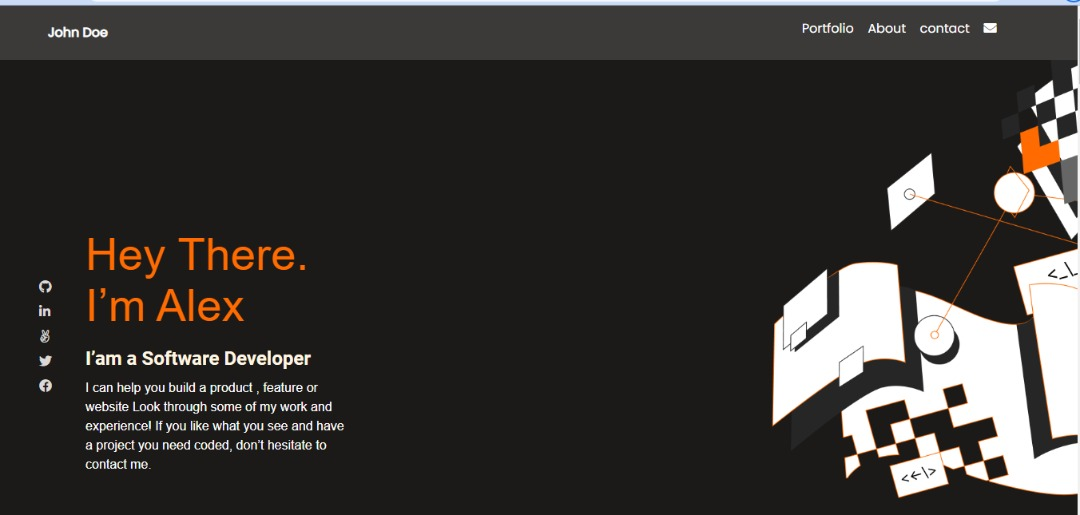
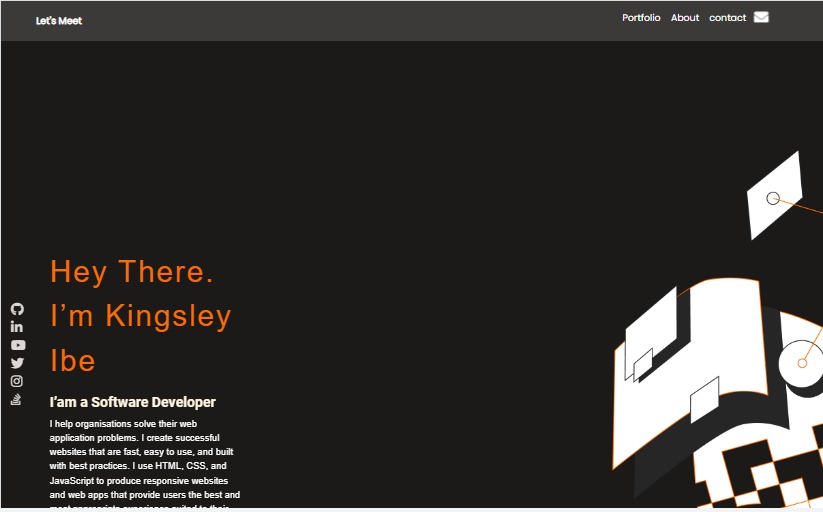
Make changes to images folder, index.html,script.js, and style.css files

Changed region(s): [[0.0, 0.0, 1.0, 1.0]]

diff --git a/index.html b/index.html
@@ -46,11 +46,11 @@
             <section class="section-headline mv-section-headline">
             <div class="main-text mv-main-text">
             <div class="intro">
-                <h1>Hey There. I’m Kingsley Ibe</h1>
-                <h3>I’am a Software Developer</h3>
+                <h1>Hey There, I’m Kingsley</h1>
+                <h3>I’m a Software Developer</h3>
                 <p>I help organisations solve their web application problems. 
                     I create successful websites that are fast, easy to use, and built with best practices. 
-                    I use HTML, CSS, and JavaScript to produce responsive websites and web apps that provide
+                    With modern web technologies I produce responsive websites and web apps that provide
                     users the best and most appropriate experience suited to their device and browser.</p>
             </div>
                 <ul class=" social-media social-media-icons mv-social-media mv-social-media-icons">
@@ -74,8 +74,9 @@
                 </div>
                 <div class="project-list-1">
                 <h2>Github Finder</h2>
-                <p>A daily selection of privately personalized reads; no accounts or sign-ups required. has been the industry's 
-                    standard dummy text ever since the 1500s, when an unknown printer took a standard dummy text.</p>
+                <p>Github Finder is a web application that calls the Github user API to fetch information about 
+                    individual users. 
+                </p>
                     <ul>
                         <li><a href="#" class="anchor-link">CSS</a></li>
                         <li><a href="#" class="anchor-link">HTML</a></li>
@@ -94,54 +95,54 @@
                 <p>A daily selection of privately personalized reads; 
                     no accounts or sign-ups required. has been the industry's standard</p>
                     <ul>
-                        <li><a href="#" class="anchor-link">html</a></li>
+                        <li><a href="#" class="anchor-link">HTML</a></li>
                         <li><a href="#" class="anchor-link">bootstrap</a></li>
-                        <li><a href="#" class="anchor-link">Ruby</a></li>
+                        <li><a href="#" class="anchor-link">CSS</a></li>
                     </ul>
             </div>
                 <div class="project-2-btn">
                     <button class="btn btn-2" type="button">See Project</button>
                 </div>
             </div>
-            <div class="project-2">
+            <div class="project-2 project-3">
                 <div class="project-layout mv-project-layout">
                 <h3 class="project-title">Professional Art Printing Data</h3>
                 <p>A daily selection of privately personalized reads; 
                     no accounts or sign-ups required. has been the industry's standard</p>
                     <ul>
-                        <li><a href="#" class="anchor-link">html</a></li>
+                        <li><a href="#" class="anchor-link">HTML</a></li>
                         <li><a href="#" class="anchor-link">bootstrap</a></li>
-                        <li><a href="#" class="anchor-link">Ruby</a></li>
+                        <li><a href="#" class="anchor-link">CSS</a></li>
                     </ul>
             </div>
                 <div class="project-2-btn">
                     <button class="btn btn-3" type="button">See Project</button>
                 </div>
             </div>
-            <div class="project-2">
+            <div class="project-2 project-4">
                 <div class="project-layout mv-project-layout">
                 <h3 class="project-title">Professional Art Printing Data</h3>
                 <p>A daily selection of privately personalized reads; 
                     no accounts or sign-ups required. has been the industry's standard</p>
                     <ul>
                         <li><a href="#" class="anchor-link">html</a></li>
-                        <li><a href="#" class="anchor-link">bootstrap</a></li>
-                        <li><a href="#" class="anchor-link">Ruby</a></li>
+                        <li><a href="#" class="anchor-link">JavaScript</a></li>
+                        <li><a href="#" class="anchor-link">Rect</a></li>
                     </ul>
                 </div>
                 <div class="project-2-btn">
                     <button class="btn btn-4" type="button">See Project</button>
                 </div>
             </div>
-            <div class="project-2">
+            <div class="project-2 project-5">
                 <div class="project-layout mv-project-layout">
                 <h3 class="project-title">Prudence Concept Website</h3>
                 <p>Prudence is a Photography business website that offers 
                     different Photography services such as Videography, event shot, commercial Photography, etc.
                 </p>
                     <ul>
-                        <li><a href="#" class="anchor-link">html</a></li>
-                        <li><a href="#" class="anchor-link">bootstrap</a></li>
+                        <li><a href="#" class="anchor-link">HTML</a></li>
+                        <li><a href="#" class="anchor-link">Bootstrap</a></li>
                         <li><a href="#" class="anchor-link">JavaScript</a></li>
                     </ul>
                 </div>
@@ -149,7 +150,7 @@
                     <button class="btn btn-5" type="button">See Project</button>
                 </div>
             </div>
-            <div class="project-2">
+            <div class="project-2 project-6">
                 <div class="project-layout mv-project-layout">
                 <h3 class="project-title">Leads Tracker - Google Chrome Extension</h3>
                 <p>Google chrome extension for saving URLs. With Leads Tracker, you don't 
@@ -165,15 +166,15 @@
                     <button class="btn btn-6" type="button">See Project</button>
                 </div>
             </div>
-            <div class="project-2">
+            <div class="project-2 project-7">
                 <div class="project-layout mv-project-layout">
-                <h3 class="project-title">Professional Art Printing Data</h3>
+                <h3 class="project-title">Portfolio Website for Software Developer</h3>
                 <p>A daily selection of privately personalized reads; 
                     no accounts or sign-ups required. has been the industry's standard</p>
                     <ul>
-                        <li><a href="#" class="anchor-link">html</a></li>
-                        <li><a href="#" class="anchor-link">bootstrap</a></li>
-                        <li><a href="#" class="anchor-link">Ruby</a></li>
+                        <li><a href="#" class="anchor-link">HTML</a></li>
+                        <li><a href="#" class="anchor-link">CSS</a></li>
+                        <li><a href="#" class="anchor-link">JavaScript</a></li>
                     </ul>
                 </div>
                 <div class="project-2-btn">

diff --git a/script.js b/script.js
@@ -19,7 +19,7 @@ window.onload = () => {
     const projectItems = [
       {
         id: 1,
-        title: 'Multi Post Stories',
+        title: 'Github Finder',
         displayImage: '',
         tech: ['Html', 'Bootstrap', 'Ruby on rails'],
         description: 'Lorem Ipsum is simply dummy text of the printing and typesetting industry.' +
@@ -71,35 +71,42 @@ window.onload = () => {
       },
       {
         id: 5,
-        title: 'Multi Post Stories',
+        title: 'Prudence Concept Website',
         displayImage: '',
-        tech: ['Html', 'Bootstrap', 'Ruby on rails'],
-        description: 'Lorem Ipsum is simply dummy text of the printing and typesetting industry.' +
-        'Lorem Ipsum has been the industrys standard dummy text ever since the 1500s, when an' + 
-        'unknown printer took a galley of type and scrambled it to make a type specimen book.' + 
-        'It has survived not only five centuries, but also the leap into electronic typesetting,' + 
-        'remaining essent',
+        tech: ['HTML', 'Bootstrap', 'JavaScript'],
+        description: 'Before your visit the live link, let me tell you a bit about Prudence Concept and their awesome work. ' +
+        'Prudence Concept specializes in wedding photography, corporate, family and senior portraits, ' +
+        'often traveling to your destination to capture the perfect moment in the perfect place. ' + 
+        'Supporting their client with every step of the way to guarantee their special moments are captured for all time. ' +
+        'To Prudence, photography is about people being real and then letting creators paint a picture of that moment ' +
+        'to remember it forever. This is the story that matters most: real people, real stories, real moments. ' +
+        'They are incredibly blessed to have a team of photographers who work with them on any given weekend. ' + 
+        'Please take a few minutes to get to know Prudence. They would love to visit with you by phone or in  ' +
+        'person and talk about your wedding, event, portrait session or video project.' +
+        'Please reach out to Prudence to get super quality service. ',
         linkToSource: 'See Source',
         linkToLive: 'See Live'
       },
       {
         id: 6,
-        title: 'Multi Post Stories',
+        title: 'Leads Tracker - Google Chrome Extension',
         displayImage: '',
-        tech: ['Html', 'Bootstrap', 'Ruby on rails'],
-        description: 'Lorem Ipsum is simply dummy text of the printing and typesetting industry.' +
-        'Lorem Ipsum has been the industrys standard dummy text ever since the 1500s, when an' + 
-        'unknown printer took a galley of type and scrambled it to make a type specimen book.' + 
-        'It has survived not only five centuries, but also the leap into electronic typesetting,' + 
-        'remaining essent',
+        tech: ['HTML', 'CSS', 'JavaScript'],
+        description: 'Leads Tracker can be used to save URL from any website. ' +
+        'Build a list of targeted leads to grow your business from any website. ' + 
+        'For sites with great leads potential as LinkedIn, Leads Tracker can be a tool to save the URL for 1st, ' + 
+        '2nd and 3rd level LinkedIn connections. Just visit any URL you wish to save, ' + 
+        'click on ‘save tab’ button and the URL of your current tab is saved. ' +
+        'You can also add a description of your URL using the ‘save input’ button. ' +
+        'With Lead Tracker, you don’t have to worry about keeping track of important links anymore. ',
         linkToSource: 'See Source',
         linkToLive: 'See Live'
       },
       {
         id: 7,
-        title: 'Multi Post Stories',
+        title: 'Portfolio Website for Software Developer',
         displayImage: '',
-        tech: ['Html', 'Bootstrap', 'Ruby on rails'],
+        tech: ['HTML', 'Bootstrap', 'JavaScript'],
         description: 'Lorem Ipsum is simply dummy text of the printing and typesetting industry.' +
         'Lorem Ipsum has been the industrys standard dummy text ever since the 1500s, when an' + 
         'unknown printer took a galley of type and scrambled it to make a type specimen book.' + 

diff --git a/style.css b/style.css
@@ -50,6 +50,10 @@ div a {
   text-decoration: none;
 }
 
+.about-me a{
+  color: #fff;
+}
+
 div li {
   list-style-type: none;
 }
@@ -113,6 +117,7 @@ img:hover {
   height: 110vh;
   width: 100%;
   background-size: cover;
+  margin-top: 0;
 }
 
 section .mv-main-text {
@@ -129,15 +134,15 @@ section .mv-main-text {
 .mv-main-text h1 {
   color: #ff6b00;
   font-family: Crete Round, Arial, Helvetica, sans-serif;
-  font-size: 72px;
+  font-size: 51px;
   font-style: normal;
   font-weight: normal;
-  line-height: 64px;
-  letter-spacing: 0.3700000047683716px;
+  line-height: 75px;
+  letter-spacing: 3px;
   text-align: left;
   margin-left: 10px;
   margin-top: 62px;
-  padding-top: 60px;
+  padding-top: 5px;
 }
 
 .mv-main-text h3 {
@@ -227,8 +232,11 @@ section .mv-main-text {
 
 .mv-social-media-icons {
   display: flex;
-  width: 50%;
+  width: 60%;
   justify-content: space-between;
+  margin-top: 79px;
+  margin-left: 0;
+  padding-left: 5px;
 }
 
 .project-section {
@@ -241,7 +249,7 @@ section .mv-main-text {
   padding-top: 100px;
 }
 
-.project-headline h1 {
+.project-headline h2 {
   color: #000;
   text-align: center;
   font-size: 40px;
@@ -307,6 +315,18 @@ section .mv-main-text {
   color: #091e42;
   background-image: url('./images/placeholder-2.png');
   background-size: cover;
+}
+
+.project-5 {
+  background-image: url('./images/prudenceWebsite.jpg');
+}
+
+.project-6 {
+  background-image: url('./images/leads-tracker.jpeg');
+}
+
+.project-7 {
+  background-image: url('./images/project-screenshoot.jpeg');
 }
 
 .mv-project-layout {
@@ -385,7 +405,7 @@ section .mv-main-text {
   position: relative;
 }
 
-.about-headline h1 {
+.about-headline h2 {
   color: #ff6b00;
   font-family: "Crete Round", Arial, Helvetica, sans-serif;
   font-size: 72px;
@@ -589,9 +609,9 @@ form .flex-item:hover {
 .mv-social-media-footer {
   display: flex;
   flex-direction: row;
-  width: 50%;
+  width: 60%;
   justify-content: space-between;
-  margin-left: 70px;
+  margin-left: 40px;
 }
 
 .mv-social-media-footer i {
@@ -829,7 +849,7 @@ form .flex-item:hover {
     margin: 57px 0 70px 15px;
   }
 
-  .project-headline h1 {
+  .project-headline h2 {
     margin-left: 100px;
     color: #000;
     text-align: center;
@@ -874,6 +894,18 @@ form .flex-item:hover {
     color: #091e42;
     background-image: url('./images/placeholder-2.png');
     background-size: cover;
+  }
+
+  .project-5 {
+    background-image: url('./images/prudenceWebsite.jpg');
+  }
+
+  .project-6 {
+    background-image: url('./images/leads-tracker.jpeg');
+  }
+
+  .project-7 {
+    background-image: url('./images/project-screenshoot.jpeg');
   }
 
   .about-headline {
